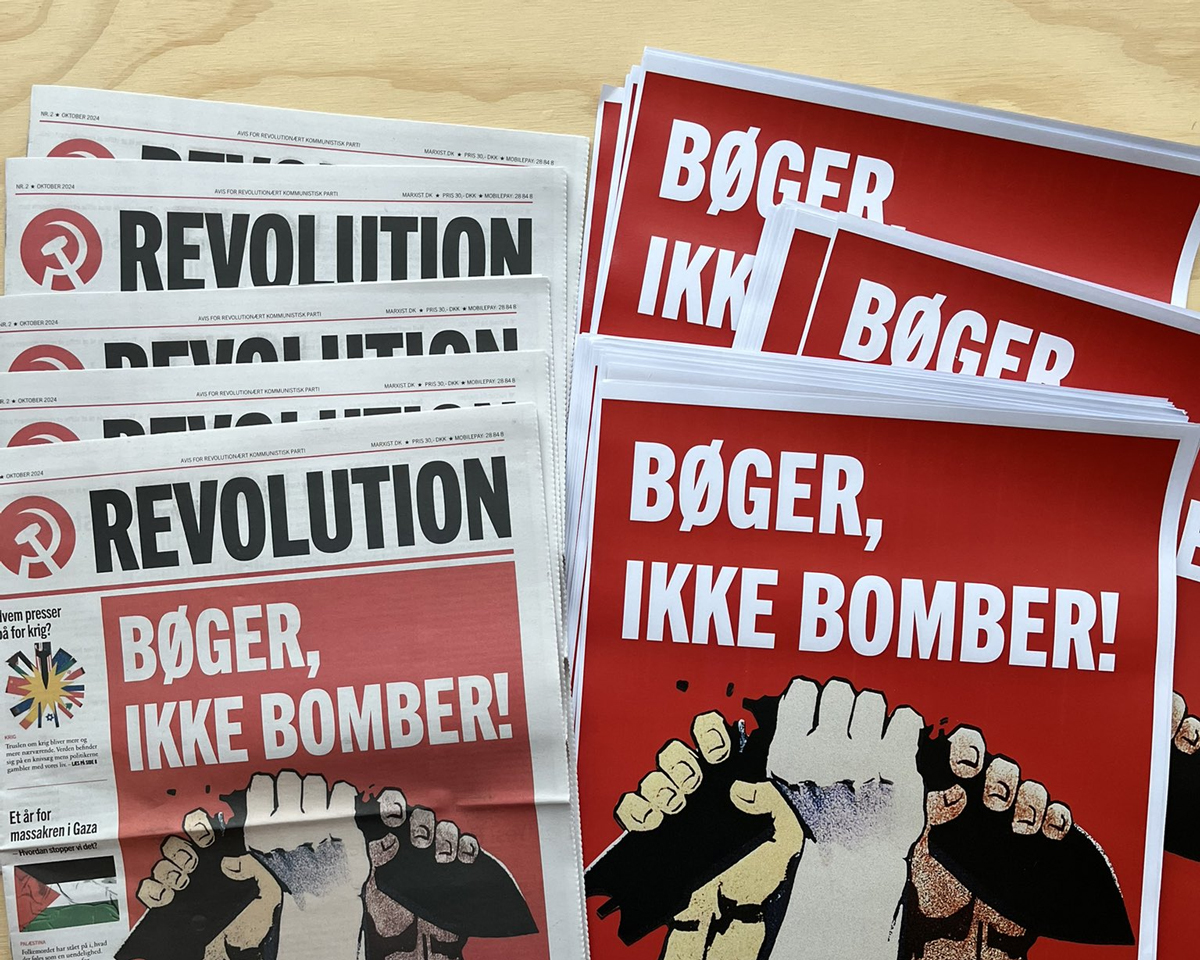
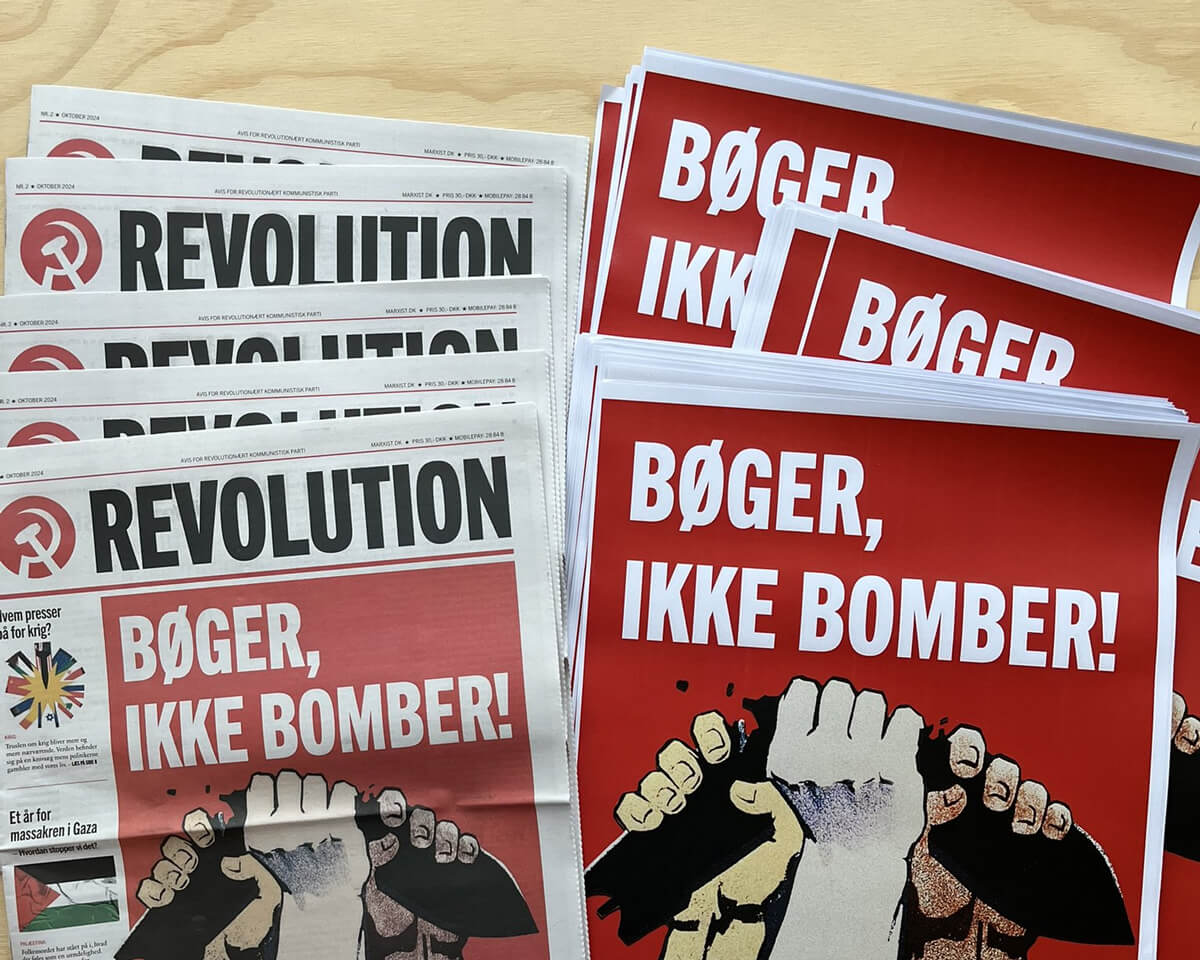
Optimise some images

diff --git a/templates/header.html b/templates/header.html
@@ -1,15 +1,11 @@
 <header>
-
   <a class="portrait" href="/">
-    <img alt="Jezen Thomas" src="/static/img/jgt2.jpg" loading="lazy">
+    <img alt="Jezen Thomas" src="/static/img/jgt.jpg" loading="lazy">
   </a>
-
   <h1 class="site-title">
     <a href="/">Jezen Thomas</a>
   </h1>
-
   <p class="bio">
     CTO &amp; Co-Founder at Supercede.
   </p>
-
 </header>
